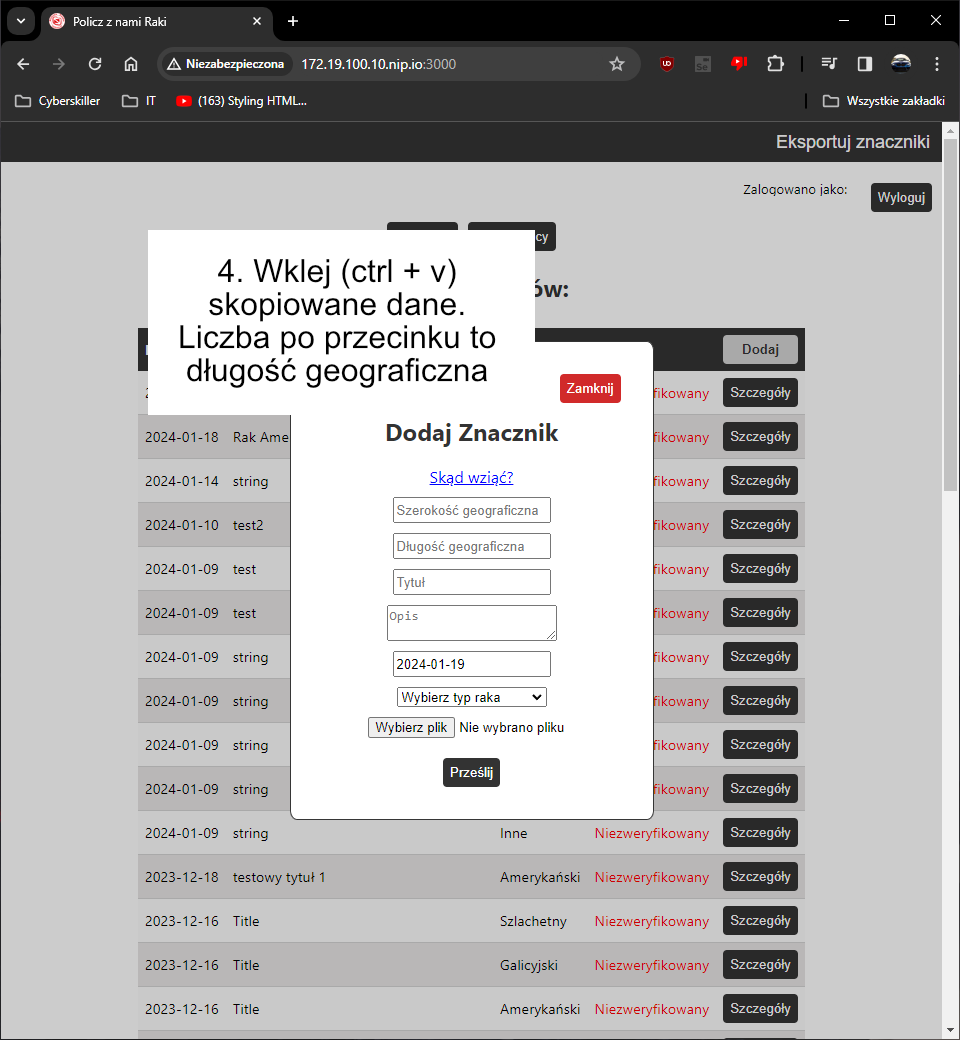
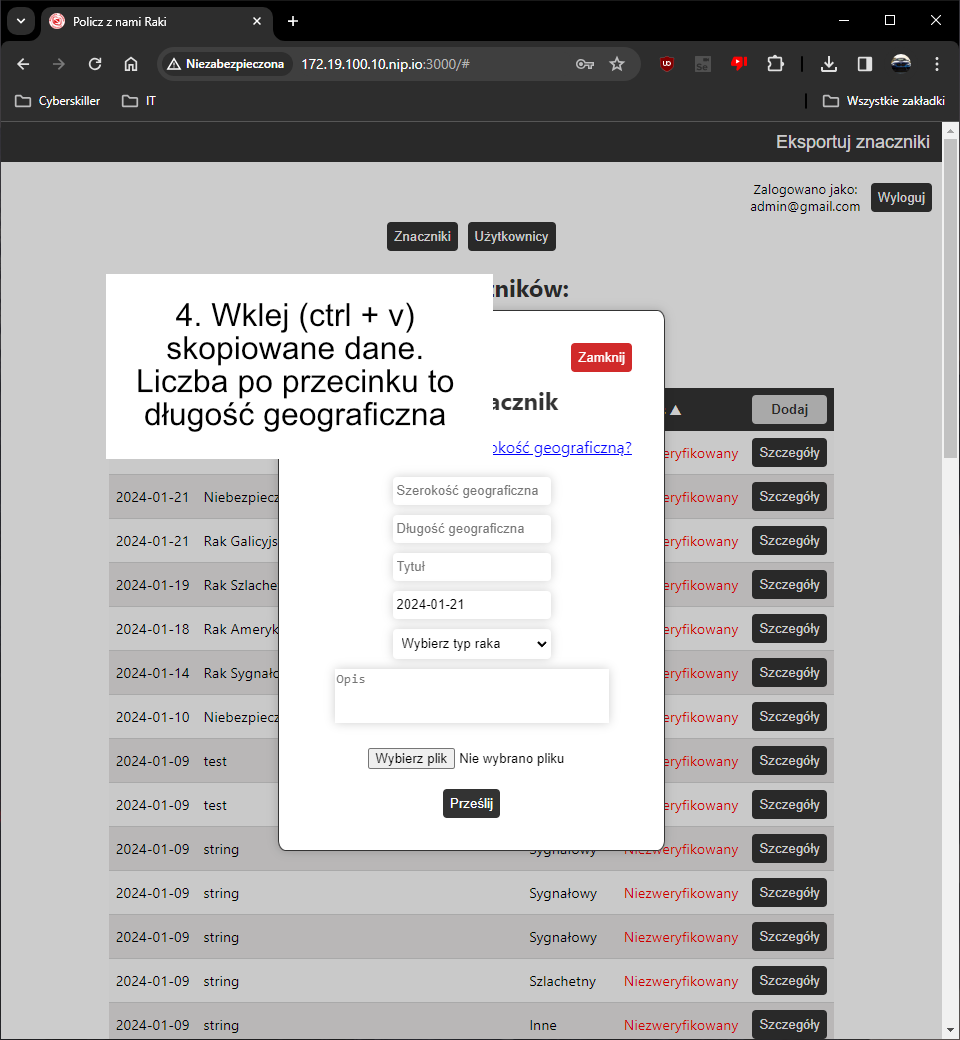
Added Page Chooser and some styling

diff --git a/admin-panel/src/components/tables/MarkerTableForLoggedUsers.js b/admin-panel/src/components/tables/MarkerTableForLoggedUsers.js
@@ -1,8 +1,9 @@
 import React, {useState} from "react";
 import AddMarkerPopupFN from "../popups/AddMarkerPopup";
-import { crayfishTypeSwitch, sortMarkers, generateTableHeaders, handleHeaderClick, handleDetailsClick, handleCheckboxChange, getSortedFilteredMarkers } from "../functions";
+import { crayfishTypeSwitch, sortMarkers, generateTableHeaders, handleHeaderClick, handleDetailsClick, handleCheckboxChange, getSortedFilteredMarkers, getSortedFilteredMarkersFromRange } from "../functions";
 import DetailsPopupWithEditing from "../popups/DetailsPopupWithEditing";
 import YearPicker from "../other/YearPicker";
+import PageChooser from "../other/PageChooser";
 
 export default function MarkerTableForLoggedUsers({markers, token, email, role, refreshTable, downloadTrigger, selectedMarkers, setSelectedMarkers}) {
 
@@ -12,6 +13,8 @@ export default function MarkerTableForLoggedUsers({markers, token, email, role, 
     const [currentHeader, setCurrentHeader] = useState("Status");
     const [sortAs, setSortAs] = useState("asc");
     const [selectedYear, setSelectedYear] = useState("");
+
+    const [page, setPage] = useState(1);
 
     const headers = ["Data", "Tytuł", "Typ", "Status"];
 
@@ -28,7 +31,7 @@ export default function MarkerTableForLoggedUsers({markers, token, email, role, 
     return(
     <div className="AdminMarkerList">
         <h2>Lista znaczników:</h2>
-        <YearPicker markers={markers} selectedYear={selectedYear} setSelectedYear={setSelectedYear}/>
+        <YearPicker markers={markers} selectedYear={selectedYear} setSelectedYear={setSelectedYear} setPage={setPage}/>
         <table className="MarkerTable">
             <thead>
             <tr>
@@ -38,7 +41,7 @@ export default function MarkerTableForLoggedUsers({markers, token, email, role, 
             </tr>
             </thead>
             <tbody>
-                {role === "ADMIN" ? getSortedFilteredMarkers(markers, selectedYear, currentHeader, sortAs).map( (marker, index) => (
+                {role === "ADMIN" ? getSortedFilteredMarkersFromRange(markers, selectedYear, currentHeader, sortAs, page).map( (marker, index) => (
                     <tr key={index}>
                         {downloadTrigger ? 
                             <td>
@@ -58,7 +61,7 @@ export default function MarkerTableForLoggedUsers({markers, token, email, role, 
                         </td>
                         <td><button className="TableButton" onClick={ () => handleDetailsClickWrapper(marker) }>Szczegóły</button></td>
                     </tr>
-                )) : getSortedFilteredMarkers(personalMarkers, selectedYear, currentHeader, sortAs).map( (marker, index) => (
+                )) : getSortedFilteredMarkersFromRange(personalMarkers, selectedYear, currentHeader, sortAs, page).map( (marker, index) => (
                     <tr key={index}>
                         {downloadTrigger ? 
                             <td>
@@ -81,6 +84,19 @@ export default function MarkerTableForLoggedUsers({markers, token, email, role, 
                 ))}
             </tbody>  
         </table>
+        {role === "ADMIN" ? 
+        <PageChooser 
+            markers={getSortedFilteredMarkers(markers, selectedYear, currentHeader, sortAs)}
+            page={page}
+            setPage={setPage}
+        />
+        : 
+        <PageChooser 
+            markers={getSortedFilteredMarkers(personalMarkers, selectedYear, currentHeader, sortAs)}
+            page={page}
+            setPage={setPage}
+        />
+        }
         {DetailsPopupButton && (
             <DetailsPopupWithEditing role={role} trigger={DetailsPopupButton} setTrigger={setDetailsPopupButton} marker={markerDetails} token={token} refreshTable={refreshTable}/>
         )}

diff --git a/admin-panel/src/components/tables/MarkerTable.js b/admin-panel/src/components/tables/MarkerTable.js
@@ -1,7 +1,8 @@
 import React, {useState} from "react";
 import DetailsPopup from "../popups/DetailsPopup";
-import { crayfishTypeSwitch, getSortedFilteredMarkers, generateTableHeaders, handleHeaderClick, handleDetailsClick, handleCheckboxChange } from "../functions";
+import { crayfishTypeSwitch, getSortedFilteredMarkers, generateTableHeaders, handleHeaderClick, handleDetailsClick, handleCheckboxChange, getSortedFilteredMarkersFromRange } from "../functions";
 import YearPicker from "../other/YearPicker";
+import PageChooser from "../other/PageChooser";
 
 export default function MarkerTable({markers, downloadTrigger, selectedMarkers, setSelectedMarkers}) {
 
@@ -14,6 +15,8 @@ export default function MarkerTable({markers, downloadTrigger, selectedMarkers, 
 
     const [selectedYear, setSelectedYear] = useState("");
 
+    const [page, setPage] = useState(1);
+
     const handleHeaderClickWrapper = (header) => {
         handleHeaderClick(header, currentHeader, sortAs, setCurrentHeader, setSortAs);
     };
@@ -25,7 +28,7 @@ export default function MarkerTable({markers, downloadTrigger, selectedMarkers, 
     return(
     <div className="MarkerList">
         <h2>Lista znaczników:</h2>
-        <YearPicker markers={markers} selectedYear={selectedYear} setSelectedYear={setSelectedYear}/>
+        <YearPicker markers={markers} selectedYear={selectedYear} setSelectedYear={setSelectedYear} setPage={setPage}/>
         <table className="MarkerTable">
             <thead className="NormalTableThead">
                 <tr>
@@ -34,7 +37,7 @@ export default function MarkerTable({markers, downloadTrigger, selectedMarkers, 
                 </tr>
             </thead>
             <tbody>
-                {getSortedFilteredMarkers(markers, selectedYear, currentHeader, sortAs).map( (marker, index) => (
+                {getSortedFilteredMarkersFromRange(markers, selectedYear, currentHeader, sortAs, page).map( (marker, index) => (
                     <tr key={index}>
                         {downloadTrigger ? 
                             <td>
@@ -54,9 +57,13 @@ export default function MarkerTable({markers, downloadTrigger, selectedMarkers, 
                         <td><button className="TableButton" onClick={ () => handleDetailsClickWrapper(marker)}>Szczegóły</button></td>
                     </tr>
                 ))}
-            </tbody>
-            
+            </tbody> 
         </table>
+        <PageChooser 
+            markers={getSortedFilteredMarkers(markers, selectedYear, currentHeader, sortAs)}
+            page={page}
+            setPage={setPage}
+        />
         {DetailsPopupButton && (
             <DetailsPopup trigger={DetailsPopupButton} setTrigger={setDetailsPopupButton} marker={markerDetails}/>          
         )}

diff --git a/admin-panel/src/components/popups/DetailsPopup.js b/admin-panel/src/components/popups/DetailsPopup.js
@@ -35,11 +35,10 @@ export default function DetailsPopup(props) {
                                 onClick={openFullScreenImage}
                             />
                         )}
-                        <p><strong>Data dodania: </strong>{props.marker.date}</p>
-                        <p><strong>Typ: </strong>{crayfishTypeSwitch(props.marker.crayfishType)}</p>
-                        {/* <p><strong>Tytuł: </strong>{props.marker.title}</p> */}
-                        <p><strong>Opis: </strong>{props.marker.description}</p>
-                        <p><strong>Dodane przez: </strong>{props.marker.userEmail}</p>
+                        <strong className="DetailsLabel">Data dodania: </strong>{props.marker.date}
+                        <strong className="DetailsLabel">Typ: </strong>{crayfishTypeSwitch(props.marker.crayfishType)}
+                        <strong className="DetailsLabel">Opis: </strong>{props.marker.description}
+                        <strong className="DetailsLabel">Dodane przez: </strong>{props.marker.userEmail}
                     </div>
                 </div>
             </div>

diff --git a/admin-panel/src/App.css b/admin-panel/src/App.css
@@ -93,7 +93,7 @@ input[type="file"] {
   margin-bottom: 10px;
 }
 .MarkerFileInput {
-  margin-left: 45px;
+  margin-right: -90px;
 }
 textarea {
   margin-bottom: 10px;
@@ -136,6 +136,8 @@ textarea::-webkit-scrollbar {
 }
 button:hover {
   cursor: pointer;
+  background-color: #4e4e4e;
+  color: white;
 }
 .MarkersButton,
 .UserMarkersButton {
@@ -206,6 +208,13 @@ table tbody tr:nth-child(odd) {
 }
 table tbody tr:last-child {
   border-bottom: 2px solid #333;
+}
+.PageChooser {
+  margin-top: -10px;
+  margin-bottom: 20px;
+}
+.DetailsLabel {
+  margin-top: 10px;
 }
 .PanelPart {
   margin-top: 20px;
@@ -374,6 +383,16 @@ input[type="radio"] {
 }
 .MarkerFileInput {
   margin-top: 15px;
+}
+.PaginationButtonLeft,
+.PaginationButtonRight {
+  margin-left: auto;
+}
+.PaginationButtonRight {
+  margin-right: 5px;
+}
+.PaginationButtonLeft {
+  margin-right: 5px;
 }
 @media only screen and (max-width: 670px) {
   .Topnav {

diff --git a/admin-panel/src/App.less b/admin-panel/src/App.less
@@ -106,7 +106,7 @@ input[type="file"] {
 }
 
 .MarkerFileInput {
-    margin-left: 45px;
+    margin-right: -90px;
 }
 
 textarea {
@@ -157,6 +157,8 @@ textarea::-webkit-scrollbar {
 
 button:hover {
     cursor: pointer;
+    background-color: #4e4e4e;
+    color: white;
 }
 
 .MarkersButton, .UserMarkersButton {
@@ -239,6 +241,15 @@ table tbody tr:nth-child(odd) {
 
 table tbody tr:last-child {
     border-bottom: 2px solid @mainColor;
+}
+
+.PageChooser {
+    margin-top: -10px;
+    margin-bottom: 20px;
+}
+
+.DetailsLabel {
+    margin-top: 10px;
 }
 
 .PanelPart {
@@ -435,6 +446,19 @@ input[type="radio"] {
 
 .MarkerFileInput {
     margin-top: 15px;
+}
+
+.PaginationButtonLeft,
+.PaginationButtonRight {
+    margin-left: auto;
+}
+
+.PaginationButtonRight {
+    margin-right: 5px;
+}
+
+.PaginationButtonLeft {
+    margin-right: 5px;
 }
 
 @media only screen and (max-width: 670px) {

diff --git a/admin-panel/src/components/functions.js b/admin-panel/src/components/functions.js
@@ -122,8 +122,19 @@ export const filterMarkers = (markers, selectedYear) => {
     }
 }
 
+export const getTenMarkersFromRange = (markers, x) => {
+    return markers.slice((x-1) * 10, x * 10);
+}
+
 export const getSortedFilteredMarkers = (markers, selectedYear, header, sortAs) => {
-    return sortMarkers(filterMarkers(markers,selectedYear), header, sortAs);
+    const filteredMarkers = filterMarkers(markers,selectedYear);
+    const sortedFilteredMarkers = sortMarkers(filteredMarkers, header, sortAs)
+    return sortedFilteredMarkers;
+}
+
+export const getSortedFilteredMarkersFromRange = (markers, selectedYear, header, sortAs, page) => {
+    const sortedFilteredMarkers = getSortedFilteredMarkers(markers, selectedYear, header, sortAs)
+    return getTenMarkersFromRange(sortedFilteredMarkers, page);
 }
 
 export const sortUsers = (data, header, sortAs) => {

diff --git a/admin-panel/src/components/other/PageChooser.js b/admin-panel/src/components/other/PageChooser.js
@@ -1,0 +1,16 @@
+import React from "react";
+
+export default function PageChooser({markers, page, setPage}) {
+
+    const handlePageButtonClick = (n) => {
+        const maxPage = Math.ceil(markers.length / 10);
+        setPage((page + n) < 1 ? 1 : (page + n > maxPage) ? maxPage : page + n);
+    }
+
+    return (
+        <div className="PageChooser">
+            <button onClick={() => handlePageButtonClick(-1)} className="PaginationButtonLeft">&#8592;</button>
+            <button onClick={() => handlePageButtonClick(1)} className="PaginationButtonRight">&#8594;</button>
+        </div>
+    )
+}

diff --git a/admin-panel/src/components/other/YearPicker.js b/admin-panel/src/components/other/YearPicker.js
@@ -8,6 +8,7 @@ export default function YearPicker(props) {
 
     const handleChange = (e) => {
         props.setSelectedYear(e.target.value);
+        props.setPage(1);
     }
     
     const generateOptions = () => {
